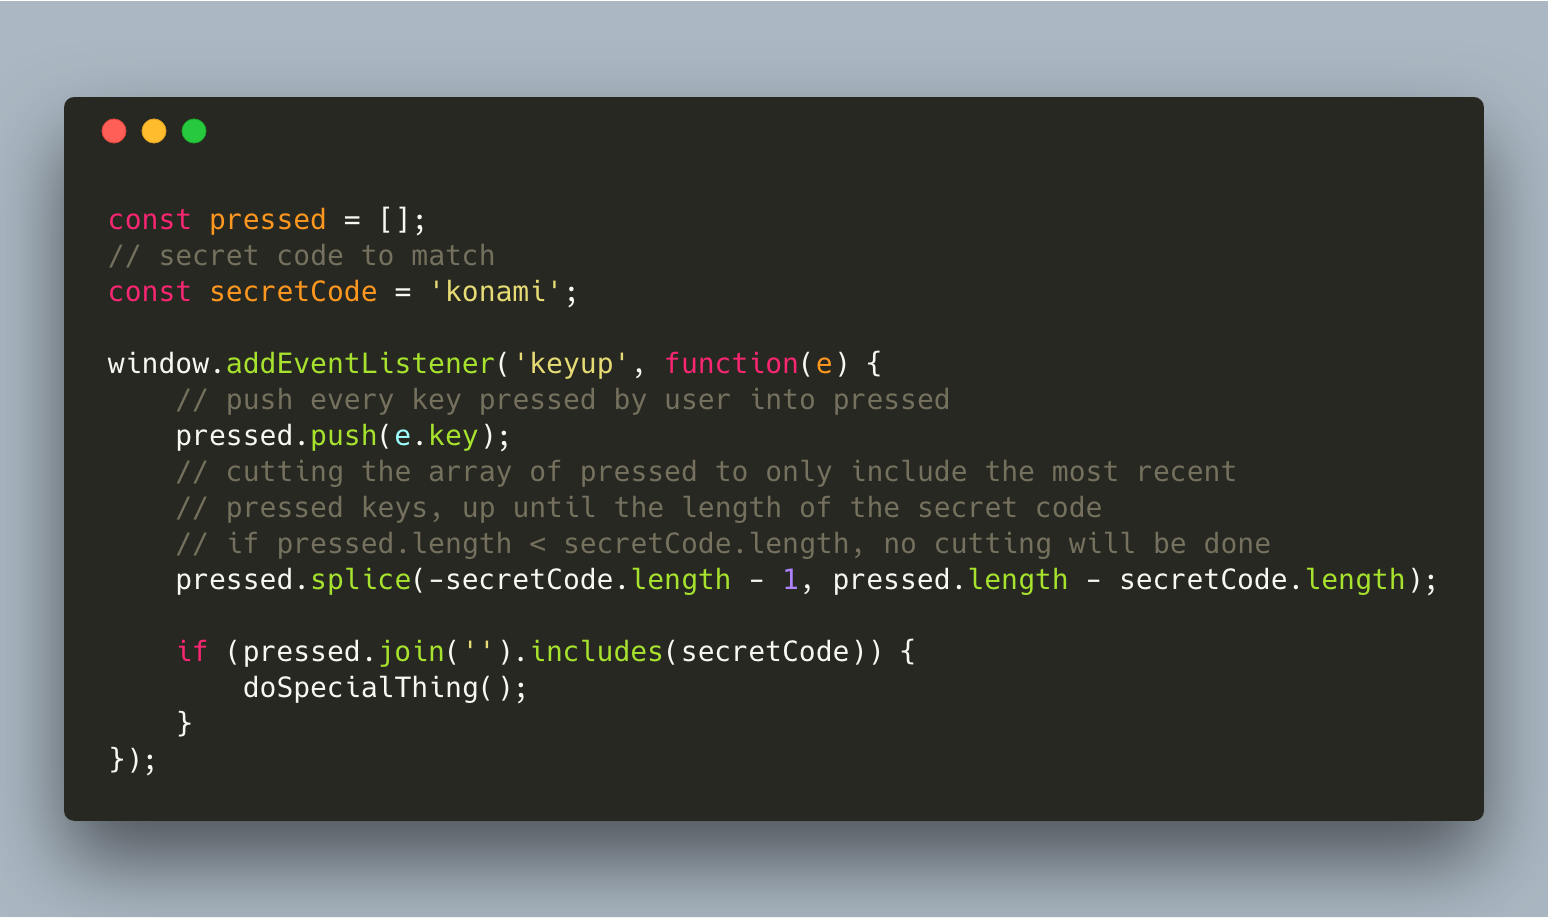
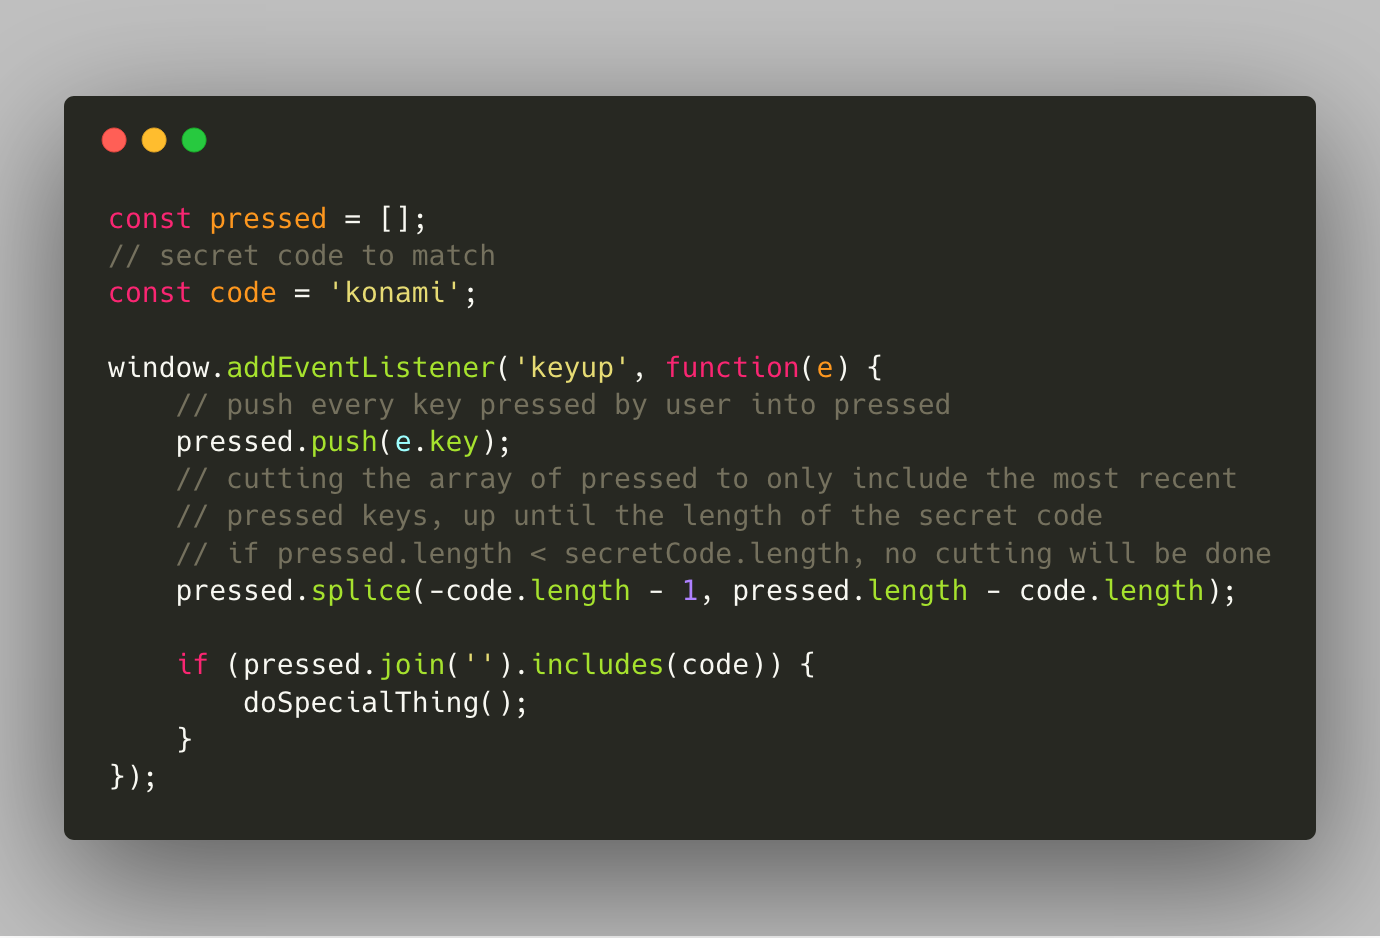
Revmoed image

Changed region(s): [[0.0312, 0.0915, 0.9659, 0.9455], [0.1246, 0.7015, 0.592, 0.7625], [0.8413, 0.488, 0.9036, 0.5185]]

diff --git a/index.html b/index.html
@@ -20,6 +20,11 @@
     <section class="about wrapper" id="about">
         <h2>What is <img src="konamilogo.png" alt=""> Code?</h2>
         <img src="konamicode.svg.png" alt="konami code sequence" class="konami-buttons">
+        <div class="gradius">
+            <img src="gradiusscreen.jpg" alt="">
+            <img src="gradiusplay.png" alt="">
+        </div>
+        <h3 class="red">Kazuhisa Hashimoto</h3>
         <!-- Hello everyone so today I'm going to talk about the Konami Code, what it is, how we can implment it into our websites, and why we might want to do so.  -->
         <!-- the konami code, also known as the most famous cheat code of all time, was first used in 1985 by the video game development team KONAMI, more specifically programmer Kazuhisa Hashimoto. He was designing this, side scrolling, shooting game called Gradius. And you know he made it difficult so it would be a challenge for the players, but he made it, slightly too difficult, so much so that he couldn't play through the whole game himself, which made it almost impossible for him to check bugs. So he created a cheat code, now the famous Konami code, which gave him some dopeeeee powerups so he could play through his game and check for bugs. Now adays used in over 100 games, from Bioshock to the Metal Gear Solid, the konami code has also transitioned itself on to the web. -->
 
@@ -32,33 +37,38 @@
         <h2>Some Examples</h2>
 
         <div class="examples-list">
-            <h3>HackerYou Alum</h3>
-            <a href="https://filipstepien.com/#about">Filip Stepien (whippet)</a>
+            <div class="example">
+                <h3>HackerYou Alum</h3>
+                 <a href="https://filipstepien.com/#about"><img src="https://images.ctfassets.net/kjeq3om28nk5/6qKeTKU2nSEQG2QgUqsAYm/580c18c5a5703b90bf8e604cac268c56/Filip_Stepien.jpg?w=800&q=50" alt=""></a>
+            </div>
 
             <!-- uk -->
-            <h3>UK Madness</h3>
-            <a href="https://www.wired.co.uk/">Wired</a>
-            <a href="https://www.vogue.co.uk/">Vogue</a>
-            <a href="https://www.gq-magazine.co.uk/">GQ</a>
+            <div class="example">
+                <h3>UK Madness</h3>
+                <a href="https://www.vogue.co.uk/"><img src="http://logok.org/wp-content/uploads/2014/12/Vogue-logo-880x654.png" alt=""></a>
+                <a href="https://www.gq-magazine.co.uk/"><img src="https://vignette.wikia.nocookie.net/harry-styles8955/images/8/88/Gq_logo.png/revision/latest?cb=20161105095631" alt=""></a>
+            </div>
 
             <!-- buzzfeed -->
-            <h3>Buzzfeed</h3>
-            <a href="https://www.buzzfeed.com/">Buzzfeed</a>
+            <div class="example">
+                <h3>Buzzfeed</h3>
+                <a href="https://www.buzzfeed.com/"><img src="http://www.stickpng.com/assets/images/58825083e81acb96424ffabd.png" alt=""></a>
+            </div>
         </div>
 
         <a href="#code" class="next">next</a>
     </section>
 
     <!-- code demo -->
-    <div class="code wrapper" id="code">
-        <img src="" alt="konami code example1" class="keycodes">
-        <img src="" alt="konami code example2" class="lettercodes">
+    <section class="code wrapper" id="code">
+        <h2>The Actual Code</h2>
+        <img src="carbon.png" alt="konami code example1" class="keycodes">
 
         <a href="#how-to" class="next">next</a>
-    </div>
+    </section>
 
     <!-- how to use -->
-    <div class="how-to wrapper" id="how-to">
+    <section class="how-to wrapper" id="how-to">
         <h2>How is this useful???</h2>
         <ul>
             <li>testing</li>
@@ -67,11 +77,18 @@
         </ul>
         <p>It's also, just such great fun.</p>
 
-    </div>
+        <a href="#end" class="next">next</a>
+
+    </section>
+
+    <section class="end wrapper" id="end">
+        <h2>Thank you!</h2>
+    </section>
 
 
 
     <!-- link to scripts -->
+    <script type="text/javascript" src="http://www.cornify.com/js/cornify.js"></script>
     <script src='https://code.jquery.com/jquery-3.2.1.min.js' integrity='sha256-hwg4gsxgFZhOsEEamdOYGBf13FyQuiTwlAQgxVSNgt4='crossorigin='anonymous'></script>
         <script src="https://cdnjs.cloudflare.com/ajax/libs/jquery-smooth-scroll/2.2.0/jquery.smooth-scroll.min.js"></script>
     <script src="main.js"></script>

diff --git a/main.js b/main.js
@@ -1,8 +1,7 @@
-// word konami
 // empty array to track the keys user will press
 const pressed = [];
 // secret code to match
-const secretCode = 'konami';
+const code = 'konami';
 
 window.addEventListener('keyup', function(e) {
     // push every key pressed by user into pressed
@@ -10,9 +9,9 @@ window.addEventListener('keyup', function(e) {
     // cutting the array of pressed to only include the most recent
     // pressed keys, up until the length of the secret code
     // if pressed.length < secretCode.length, no cutting will be done
-    pressed.splice(-secretCode.length - 1, pressed.length - secretCode.length);
+    pressed.splice(-code.length - 1, pressed.length - code.length);
 
-    if (pressed.join('').includes(secretCode)) {
+    if (pressed.join('').includes(code)) {
         doSpecialThing();
     }
 });
@@ -52,12 +51,12 @@ document.addEventListener('keyup', function(e) {
 });
 
 const doSpecialThing = () => {
-    document.body.style.backgroundImage = "url('images/cheatBackground.png')";
+    // document.body.style.backgroundImage = "url('images/cheatBackground.png')";
 
-    var audio = new Audio('audio/pling.mp3');
-    audio.play();
-
-    alert("doing special thing");
+    // var audio = new Audio('audio/pling.mp3');
+    // audio.play();
+    cornify_add();
+    // alert("doing special thing");
 }
 
 

diff --git a/styles.css b/styles.css
@@ -21,6 +21,7 @@ h1 {
 
 h2 {
     font-size: 4rem;
+    margin-top: 30px;
 }
 
 h3 {
@@ -36,11 +37,15 @@ a, li, p{
     font-size: 2.8rem;
 }
 
+.red {
+    color: #E51E2B;
+}
+
 .next {
     text-decoration: none;
     color: black;
     font-size: 4rem;
-    margin-top: 30px;
+    margin-top: 40px;
     font-weight: 700;
     transition: all 0.3s ease-in;
     width: 100px;
@@ -52,7 +57,7 @@ a, li, p{
 }
 
 .wrapper {
-    max-width: 700px;
+    max-width: 800px;
     margin: 0 auto;
     min-height: 100vh;
 }
@@ -78,4 +83,34 @@ section {
 
 .about .konami-buttons {
     width: 100%;
+}
+
+.gradius {
+    display: flex;
+}
+
+.gradius img {
+    margin: 15px;
+    width: calc(50% - 30px);
+}
+
+/* actual code */
+
+.examples-list {
+    display: grid;
+    grid-template-columns: 1fr 2fr 1fr;
+    grid-gap: 15px;
+}
+
+.example {
+    text-align: center;
+}
+
+.example:nth-child(2) img {
+    margin: 0 auto;
+    width: 170px;
+}
+
+.example:nth-child(3) img {
+    margin-top: 150px;
 }
